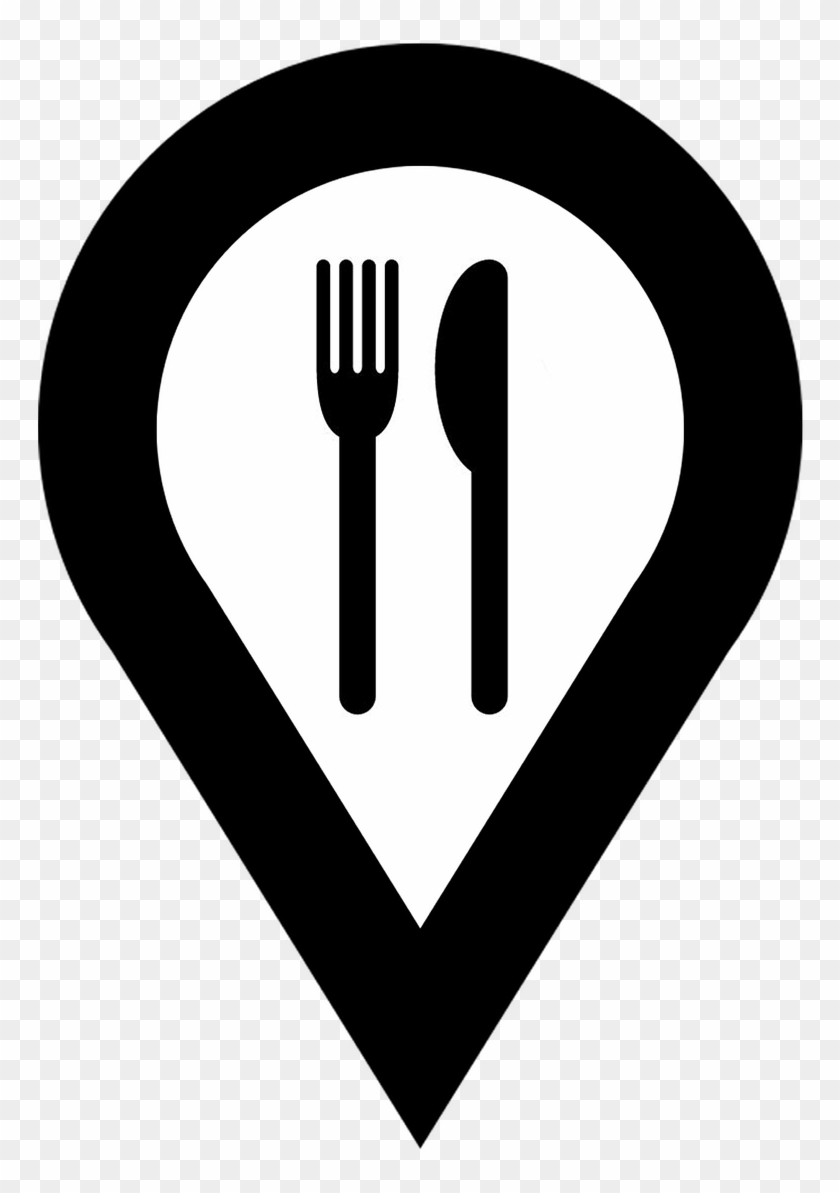
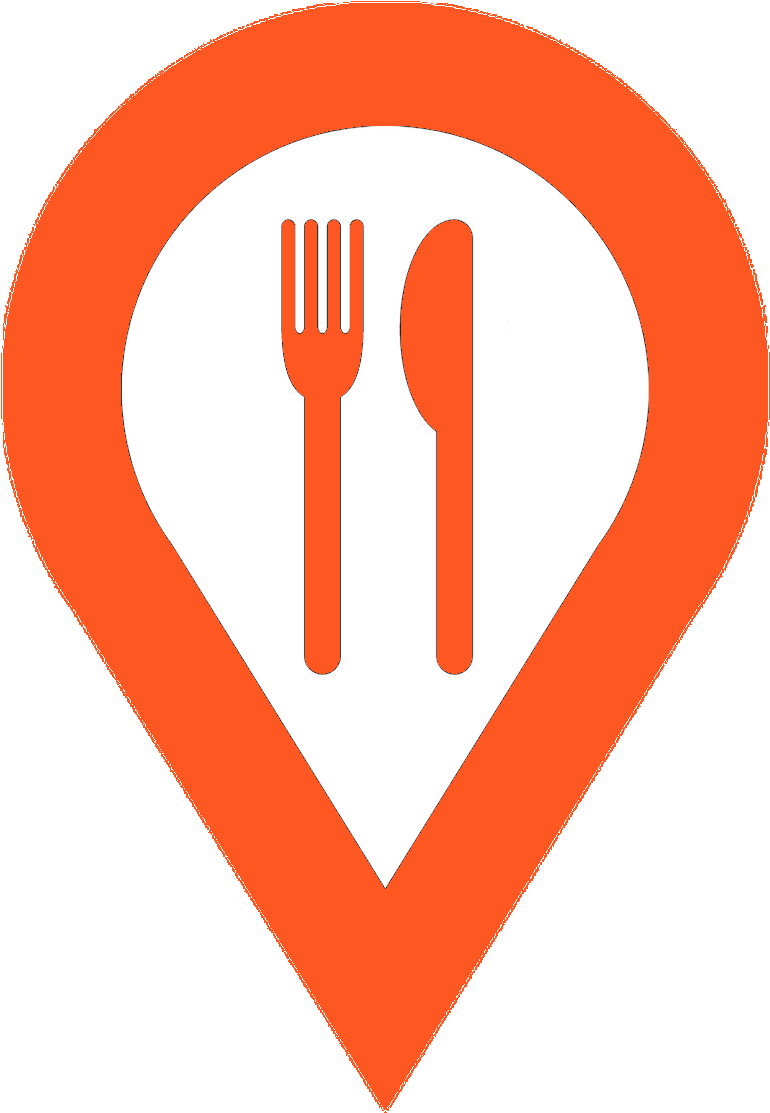
finished Goolgle map functions

diff --git a/src/components/Map/index.jsx b/src/components/Map/index.jsx
@@ -1,7 +1,8 @@
-import React, { useEffect, useState } from "react";
+import React, { useEffect, useState, useRef, useCallback } from "react";
 
 // Redux
-import { useSelector } from "react-redux";
+import { useSelector, useDispatch } from "react-redux";
+import { setLocationAddressStart, setLocationLatLng } from "../../redux/Locations/locations.actions";
 
 // config
 import { googleMapsConfig } from "../../googlemaps/config";
@@ -18,6 +19,9 @@ import { mapStylesLight, mapStylesDark } from "../../utils/mapStyles";
 // Material-ui Styles
 import { makeStyles } from "@material-ui/core/styles";
 
+// Icons
+import foodMarker from "../../assets/foodMarker.png";
+
 const useStyles = makeStyles((theme) => ({
   root: {
     height: 500,
@@ -25,33 +29,42 @@ const useStyles = makeStyles((theme) => ({
   },
 }));
 
-const mapState = ({ style }) => ({
+const mapState = ({ style, location }) => ({
   darkMode: style.darkMode,
+  center: location.geoLocation,
+  address: location.address,
 });
 
-const libraries = ["places"];
-
-const options = {
-  styles: mapStylesLight,
-  disableDefaultUI: true,
-  zoomControl: true,
-};
-
-const Map = ({ geoLocation }) => {
+const Map = ({ geoLocation, title }) => {
   const classes = useStyles();
-  const { darkMode } = useSelector(mapState);
-  const [center, setCenter] = useState({ lat: 0, lng: 0 });
+  const dispatch = useDispatch();
+  const { darkMode, center, address } = useSelector(mapState);
   const { isLoaded, loadError } = useLoadScript({
     googleMapsApiKey: googleMapsConfig.apiKey,
-    libraries,
   });
+  const [selected, setSelected] = useState(null);
+  const [geoURL, setGeoURL] = useState(null);
+
+  const mapRef = useRef();
+  const onMapLoad = useCallback((map) => {
+    mapRef.current = map;
+  }, []);
 
   useEffect(() => {
     const geo = geoLocation.split(",");
     const lat = parseFloat(geo[0]);
     const lng = parseFloat(geo[1]);
-    setCenter({ lat: lat, lng: lng });
+    dispatch(setLocationLatLng({ lat: lat, lng: lng }));
+    setGeoURL(`https://maps.googleapis.com/maps/api/geocode/json?latlng=${lat},${lng}&key=`);
   }, []);
+
+  useEffect(() => {
+    if (geoURL) dispatch(setLocationAddressStart(geoURL));
+  }, [geoURL]);
+
+  const handleSelected = (cords) => {
+    setSelected({ lat: cords.lat(), lng: cords.lng() });
+  };
 
   if (loadError) return "Error loading maps: ";
   if (!isLoaded) return "Loading Maps";
@@ -63,8 +76,25 @@ const Map = ({ geoLocation }) => {
         zoom={15}
         center={center}
         options={{ disableDefaultUI: true, zoomControl: true, styles: darkMode ? mapStylesDark : mapStylesLight }}
+        onLoad={onMapLoad}
       >
-        <Marker position={center} />
+        <Marker
+          title="name"
+          position={center}
+          icon={{
+            url: foodMarker,
+            scaledSize: new window.google.maps.Size(35, 50),
+            origin: new window.google.maps.Point(0, 0),
+          }}
+          onClick={(data) => handleSelected(data.latLng)}
+        />
+        {selected ? (
+          <InfoWindow position={selected} options={{ pixelOffset: new window.google.maps.Size(0, -50) }} onCloseClick={() => setSelected(null)}>
+            <div>
+              <h1>{address}</h1>
+            </div>
+          </InfoWindow>
+        ) : null}
       </GoogleMap>
     </Grid>
   );

diff --git a/src/redux/Locations/locations.sagas.js b/src/redux/Locations/locations.sagas.js
@@ -1,0 +1,26 @@
+import locationsTypes from "./locations.types";
+import { takeLatest, call, all, put } from "redux-saga/effects";
+import axios from "axios";
+import { setLocationAddress } from "./locations.actions";
+
+// config
+import { googleMapsConfig } from "../../googlemaps/config";
+
+export function* locationAddress({ payload }) {
+  const URL = payload + googleMapsConfig.apiKey;
+  try {
+    const data = yield axios.get(URL).then((response) => response.data.results[0].formatted_address);
+    console.log(data);
+    yield put(setLocationAddress(data));
+  } catch (error) {
+    console.log(error);
+  }
+}
+
+export function* onSetLocationAddressStart() {
+  yield takeLatest(locationsTypes.SET_LOCATION_ADDRESS_START, locationAddress);
+}
+
+export default function* locationsSagas() {
+  yield all([call(onSetLocationAddressStart)]);
+}

diff --git a/src/Hooks/useFetch.js b/src/Hooks/useFetch.js
@@ -1,0 +1,29 @@
+import { useEffect, useState, useRef } from "react";
+
+export const useFetch = (url) => {
+  // fixing memory leak when loading and component unmounts
+  const isCurrent = useRef(true);
+  const [state, setState] = useState({ data: null, loading: true });
+
+  useEffect(() => {
+    return () => {
+      // called when the component is going to unmount
+      isCurrent.current = false;
+    };
+  }, []);
+
+  useEffect(() => {
+    setState((state) => ({ data: state.data, loading: true }));
+    fetch(url)
+      .then((x) => x.text())
+      .then((y) => {
+        setTimeout(() => {
+          if (isCurrent.current) {
+            setState({ data: y, loading: false });
+          }
+        }, 500);
+      });
+  }, [url, setState]);
+
+  return state;
+};

diff --git a/src/redux/Locations/locations.reducers.js b/src/redux/Locations/locations.reducers.js
@@ -1,0 +1,25 @@
+import locationsTypes from "./locations.types";
+
+const INITIAL_STATE = {
+  geoLocation: { lat: 0, lng: 0 },
+  address: "",
+};
+
+const locationsReducer = (state = INITIAL_STATE, action) => {
+  switch (action.type) {
+    case locationsTypes.SET_LOCATION_ADDRESS:
+      return {
+        ...state,
+        address: action.payload,
+      };
+    case locationsTypes.SET_LOCATION_LAT_LNG:
+      return {
+        ...state,
+        geoLocation: action.payload,
+      };
+    default:
+      return state;
+  }
+};
+
+export default locationsReducer;

diff --git a/src/redux/rootReducer.js b/src/redux/rootReducer.js
@@ -6,12 +6,14 @@ import userReducer from "./User/user.reducers";
 import styleReducer from "./Styles/styles.reducers";
 import recipesReducer from "./Recipes/recipes.reducers";
 import pageDetailsReducer from "./PageDetails/pageDetails.reducers";
+import locationsReducer from "./Locations/locations.reducers";
 
 export const rootReducer = combineReducers({
   user: userReducer,
   style: styleReducer,
   recipes: recipesReducer,
   currentPage: pageDetailsReducer,
+  location: locationsReducer,
 });
 
 const configStorage = {

diff --git a/src/redux/Locations/locations.actions.js b/src/redux/Locations/locations.actions.js
@@ -1,0 +1,16 @@
+import locationsTypes from "./locations.types";
+
+export const setLocationAddressStart = (URL) => ({
+  type: locationsTypes.SET_LOCATION_ADDRESS_START,
+  payload: URL,
+});
+
+export const setLocationAddress = (location) => ({
+  type: locationsTypes.SET_LOCATION_ADDRESS,
+  payload: location,
+});
+
+export const setLocationLatLng = (latLng) => ({
+  type: locationsTypes.SET_LOCATION_LAT_LNG,
+  payload: latLng,
+});

diff --git a/src/components/Special/index.jsx b/src/components/Special/index.jsx
@@ -48,7 +48,7 @@ const Special = ({ details }) => {
       <Typography variant="subtitle2" component="p" color={darkMode ? "textSecondary" : "textPrimary"}>
         {details.text}
       </Typography>
-      {details.hasOwnProperty("geo") && <Map geoLocation={details.geo} />}
+      {details.hasOwnProperty("geo") && <Map geoLocation={details.geo} title={details.title} />}
     </div>
   );
 };

diff --git a/src/redux/rootSaga.js b/src/redux/rootSaga.js
@@ -2,7 +2,8 @@ import { all, call } from "redux-saga/effects";
 
 import userSagas from "./User/user.sagas";
 import recipesSagas from "./Recipes/recipes.sagas";
+import locationsSagas from "./Locations/locations.sagas";
 
 export default function* rootSaga() {
-  yield all([call(userSagas), call(recipesSagas)]);
+  yield all([call(userSagas), call(recipesSagas), call(locationsSagas)]);
 }

diff --git a/src/redux/Locations/locations.types.js b/src/redux/Locations/locations.types.js
@@ -1,0 +1,7 @@
+const locationsTypes = {
+  SET_LOCATION_ADDRESS_START: "SET_LOCATION_ADDRESS_START",
+  SET_LOCATION_ADDRESS: "SET_LOCATION_ADDRESS",
+  SET_LOCATION_LAT_LNG: "SET_LOCATION_LAT_LNG",
+};
+
+export default locationsTypes;

diff --git a/src/googlemaps/utils.js b/src/googlemaps/utils.js
@@ -1,0 +1,3 @@
+import { googleMapsConfig } from "./config";
+
+export const dataFromGeolocation = (cords) => ({});
